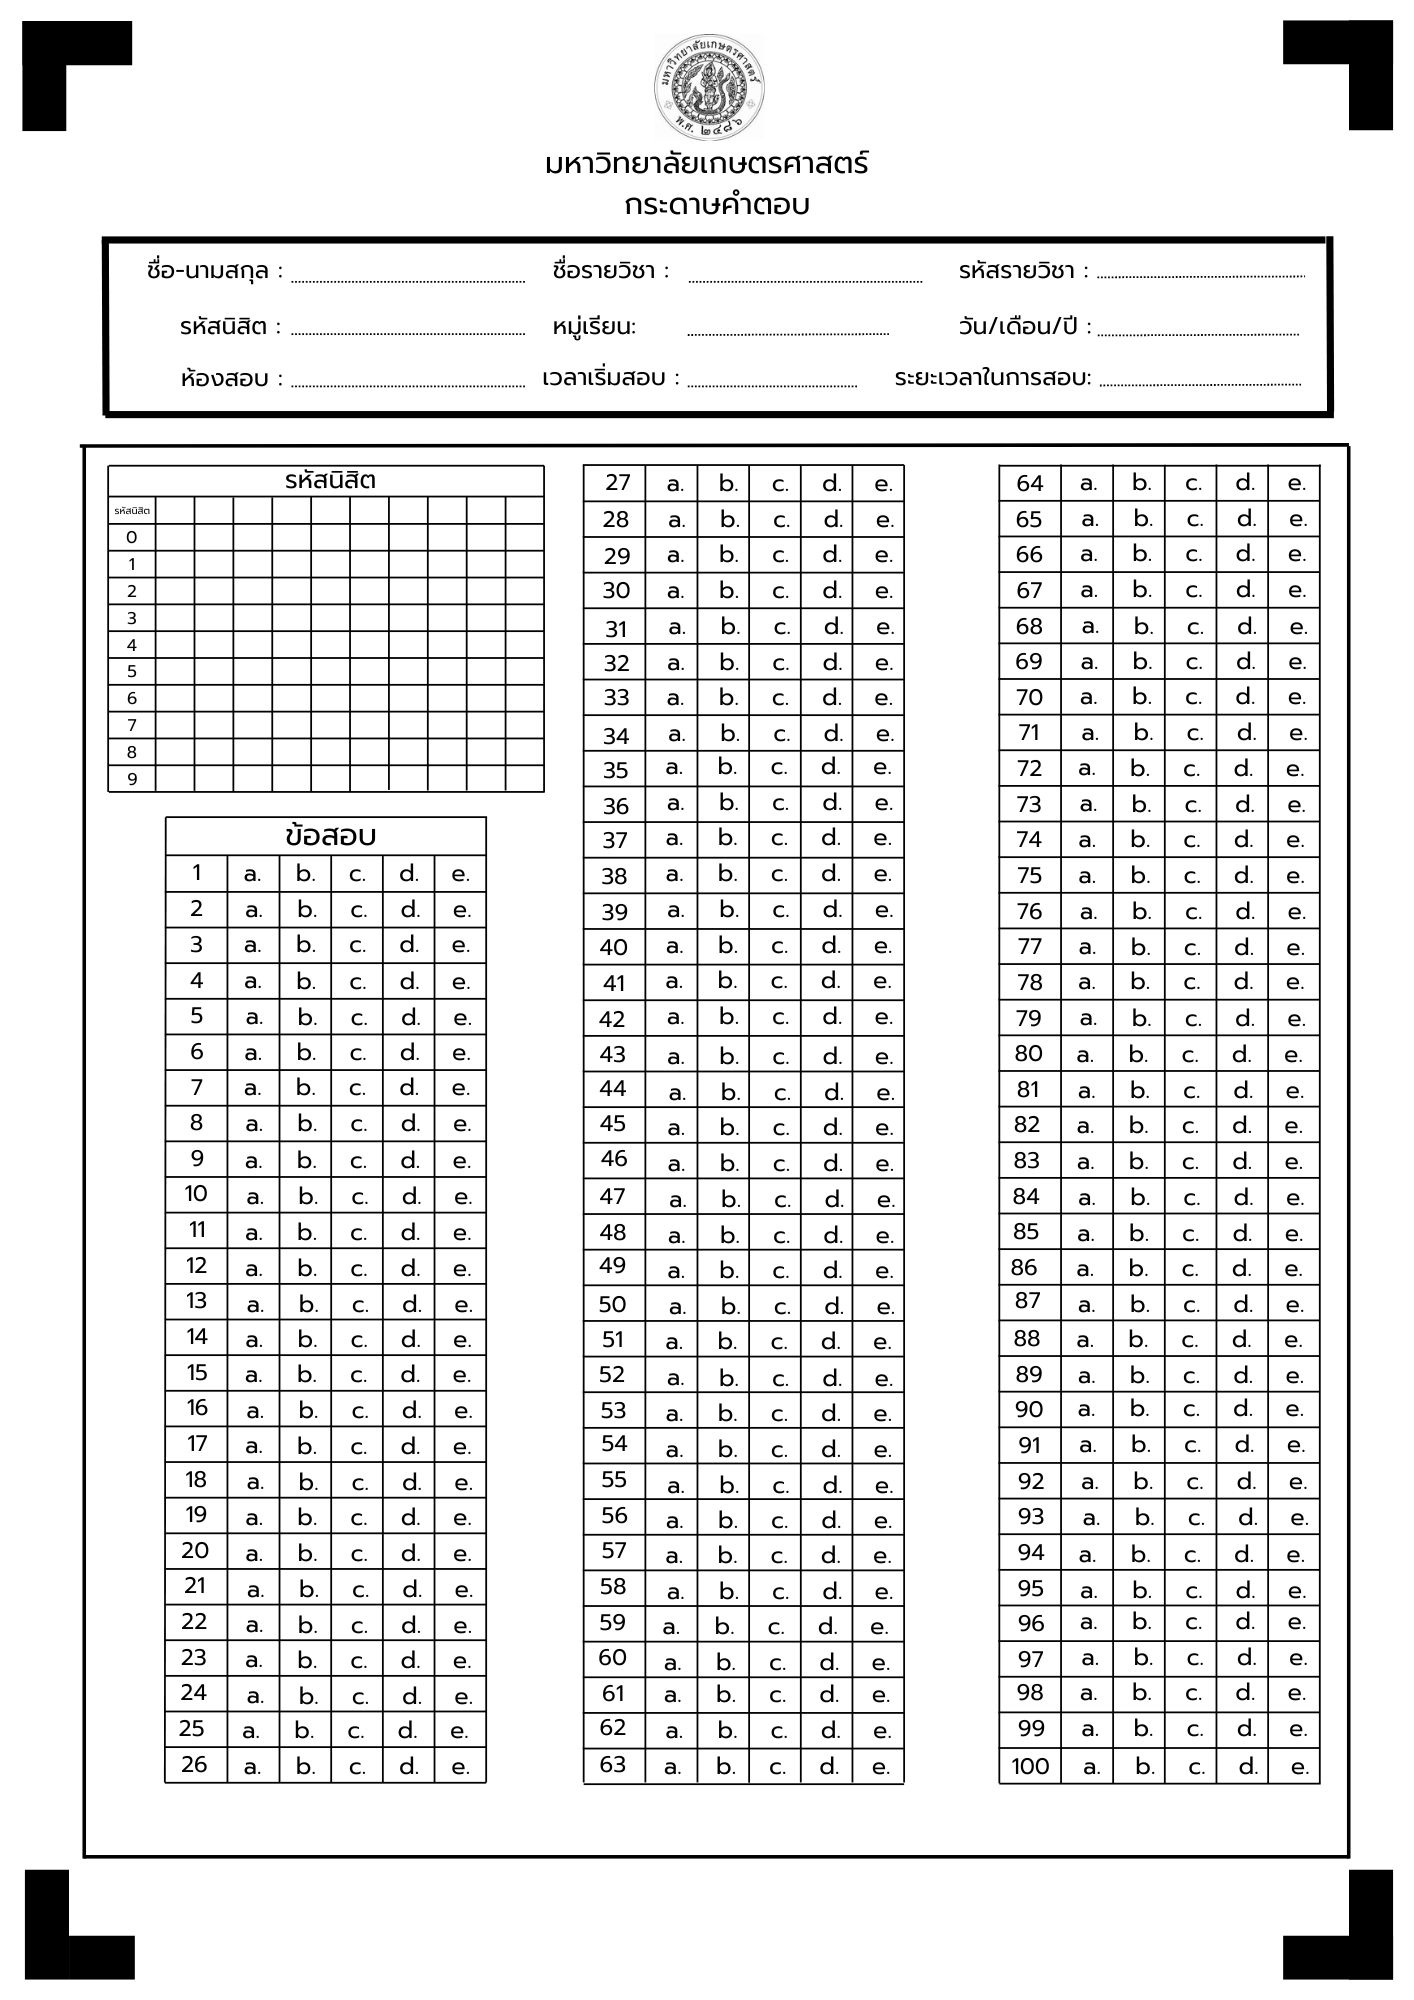
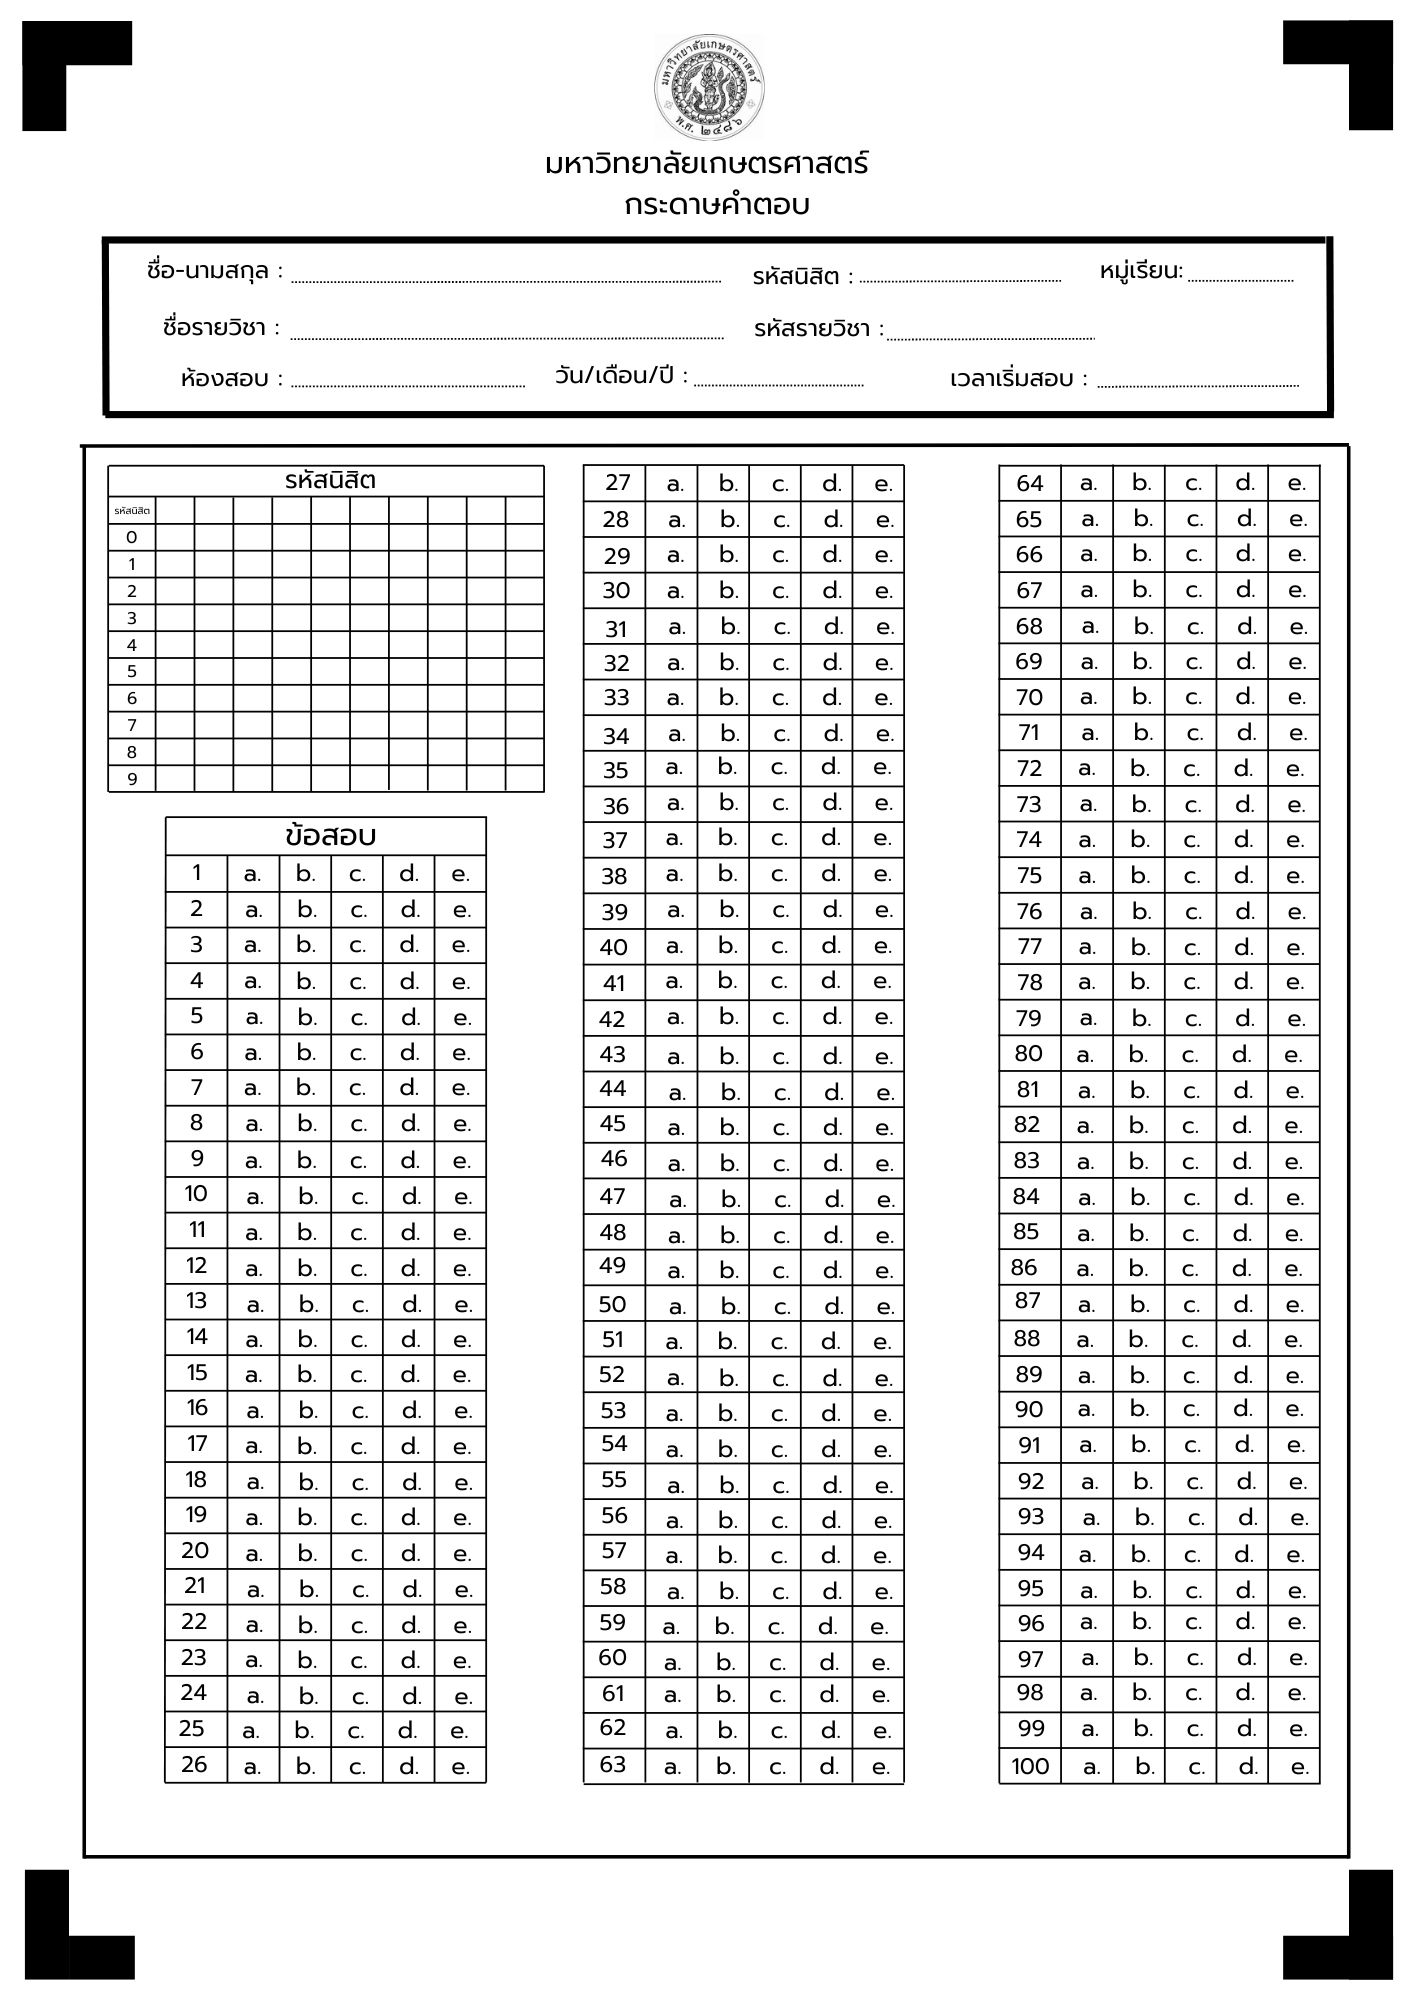
use new template for test paper for name and subject name longer

diff --git a/grading/views.py b/grading/views.py
@@ -558,14 +558,14 @@ def generate_answer_sheet(request, exam_id):
             c.setFillColorRGB(0, 0, 0.5)
             
             c.drawString(45*mm, 256*mm, f"{student.first_name} {student.last_name}")
-            c.drawString(105*mm, 256*mm, f"{exam.subject_name}")
-            c.drawString(165*mm, 256*mm, f"{exam.subject_code}")
-            c.drawString(45*mm, 248*mm, f"{student.student_id}")
-            c.drawString(105*mm, 248*mm, f"{exam.section}") 
-            c.drawString(165*mm, 248*mm, exam.exam_date.strftime('%d/%m/%Y') if exam.exam_date else "")
+            c.drawString(45*mm, 248*mm, f"{exam.subject_name}")
+            c.drawString(133*mm, 248*mm, f"{exam.subject_code}")
+            c.drawString(129*mm, 256*mm, f"{student.student_id}")
+            c.drawString(180*mm, 256*mm, f"{exam.section}") 
+            c.drawString(105*mm, 240*mm, exam.exam_date.strftime('%d/%m/%Y') if exam.exam_date else "")
             c.drawString(45*mm, 240*mm, f"{exam.room}")
-            c.drawString(105*mm, 240*mm, exam.start_time.strftime('%H:%M') if exam.start_time else "")
-            c.drawString(165*mm, 240*mm, f"{exam.duration_minutes} นาที")
+            c.drawString(165*mm, 240*mm, exam.start_time.strftime('%H:%M') if exam.start_time else "")
+            c.drawString(175*mm, 240*mm, f"({exam.duration_minutes}) นาที")
 
             GRID_START_X = 24 * mm
             GRID_START_Y = 214 * mm 
